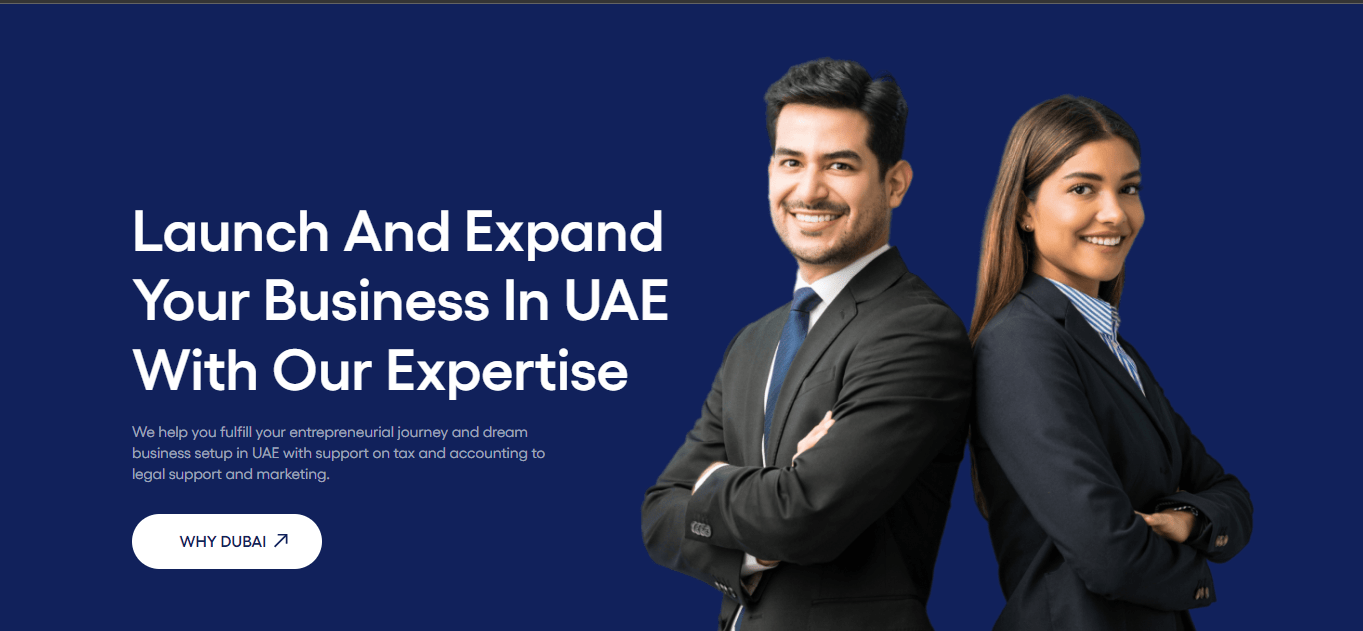
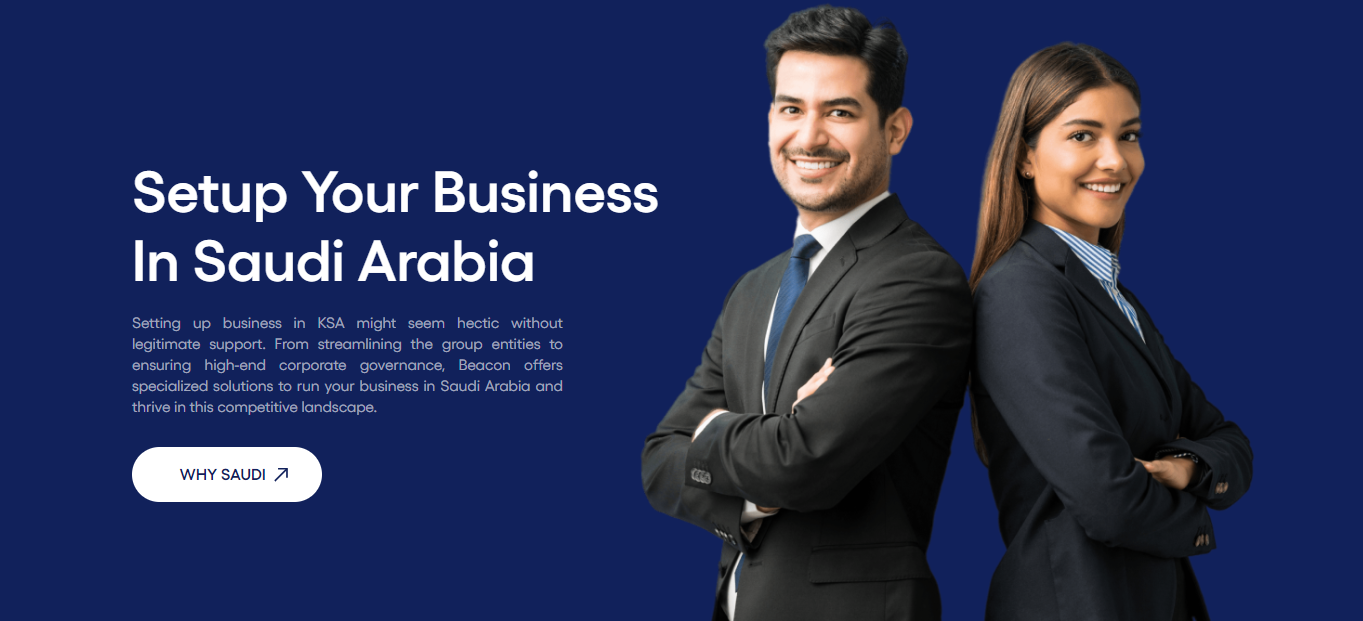
v1.0.5 metaTagsAdded

Changed region(s): [[0.0, 0.0, 1.0, 1.0], [0.0924, 0.2754, 0.493, 0.9179]]

diff --git a/src/app/components/Footer.js b/src/app/components/Footer.js
@@ -52,10 +52,10 @@ function Footer() {
             <div className="footerContactTextDetails footerContactTextDetailsEmail">
               <h1>Email us:</h1>
               <a
-                href="mailto:beacon@gmail.com"
+                href="mailto:info@bmcglobal.co"
                 style={{ textTransform: "none" }}
               >
-                beacon@gmail.com
+                info@bmcglobal.co
               </a>
             </div>
           </div>
@@ -74,8 +74,8 @@ function Footer() {
               style={{ whiteSpace: "nowrap" }}
             >
               <h1>Call us on:</h1>
-              <a href="tel:+1 800 100 900">
-                <p>+1 800 100 900</p>
+              <a href="tel:+ 966 570 807 175">
+                <p>+ 966 570 807 175</p>
               </a>
             </div>
           </div>
@@ -93,10 +93,12 @@ function Footer() {
               <div className="footerContactTextDetails">
                 <h1>Head Office:</h1>
                 <p className="dAddress">
-                195 Devonshire St Boston,<br/> MA 02110
+                  Building no. 4626, Hamza Shehatah St,
+                  <br /> Al-Baghdadiyah Al-Gharbiyah, Jeddah 22235
                 </p>
                 <p className="mAddress">
-                195 Devonshire St Boston,<br/> MA 02110
+                  Building no. 4626, Hamza Shehatah St, Al-Baghdadiyah
+                  Al-Gharbiyah, Jeddah 22235
                 </p>
               </div>
             </a>

diff --git a/src/app/components/Hero.js b/src/app/components/Hero.js
@@ -91,7 +91,7 @@ function Hero() {
             <div className="hButtonContainer heroButton">
               <div className="visibleWrapperContainer">
                 <div className="topVisibleContainer btn">
-                  Let&lsquo;s Talk
+                  Why Saudi
                   <div className="topVisibleArrow">
                     <Image
                       src="/blueArrow.svg"
@@ -102,7 +102,7 @@ function Hero() {
                   </div>
                 </div>
                 <div className="bottomVisibleContainer btn">
-                  Let&lsquo;s Talk
+                  Why Saudi
                   <div className="bottomVisibleArrow">
                     <Image
                       src="/blueArrow.svg"

diff --git a/src/app/page.js b/src/app/page.js
@@ -69,13 +69,13 @@ export default function Home() {
 }
 
 
-// export async function getStaticProps() {
-//   // Fetch data here (e.g., from an API)
-//   const data = "Some data fetched at build time";
+export async function getStaticProps() {
+  // Fetch data here (e.g., from an API)
+  const data = "Some data fetched at build time";
 
-//   return {
-//     props: {
-//       data,
-//     },
-//   };
-// }
+  return {
+    props: {
+      data,
+    },
+  };
+}

diff --git a/src/app/pages/Services/page.js b/src/app/pages/Services/page.js
@@ -214,11 +214,11 @@ function Services() {
               </div>
             )}
             <Image
-              src="/ServicesPage/servicesPage7.svg"
+              src="/ServicesPage/servicesPage7.png"
               width={576}
               height={540}
               layout="responsive"
-              alt="serviceImg1"
+              alt="serviceImg13"
               quality={100}
               priority={true}
               unoptimized
